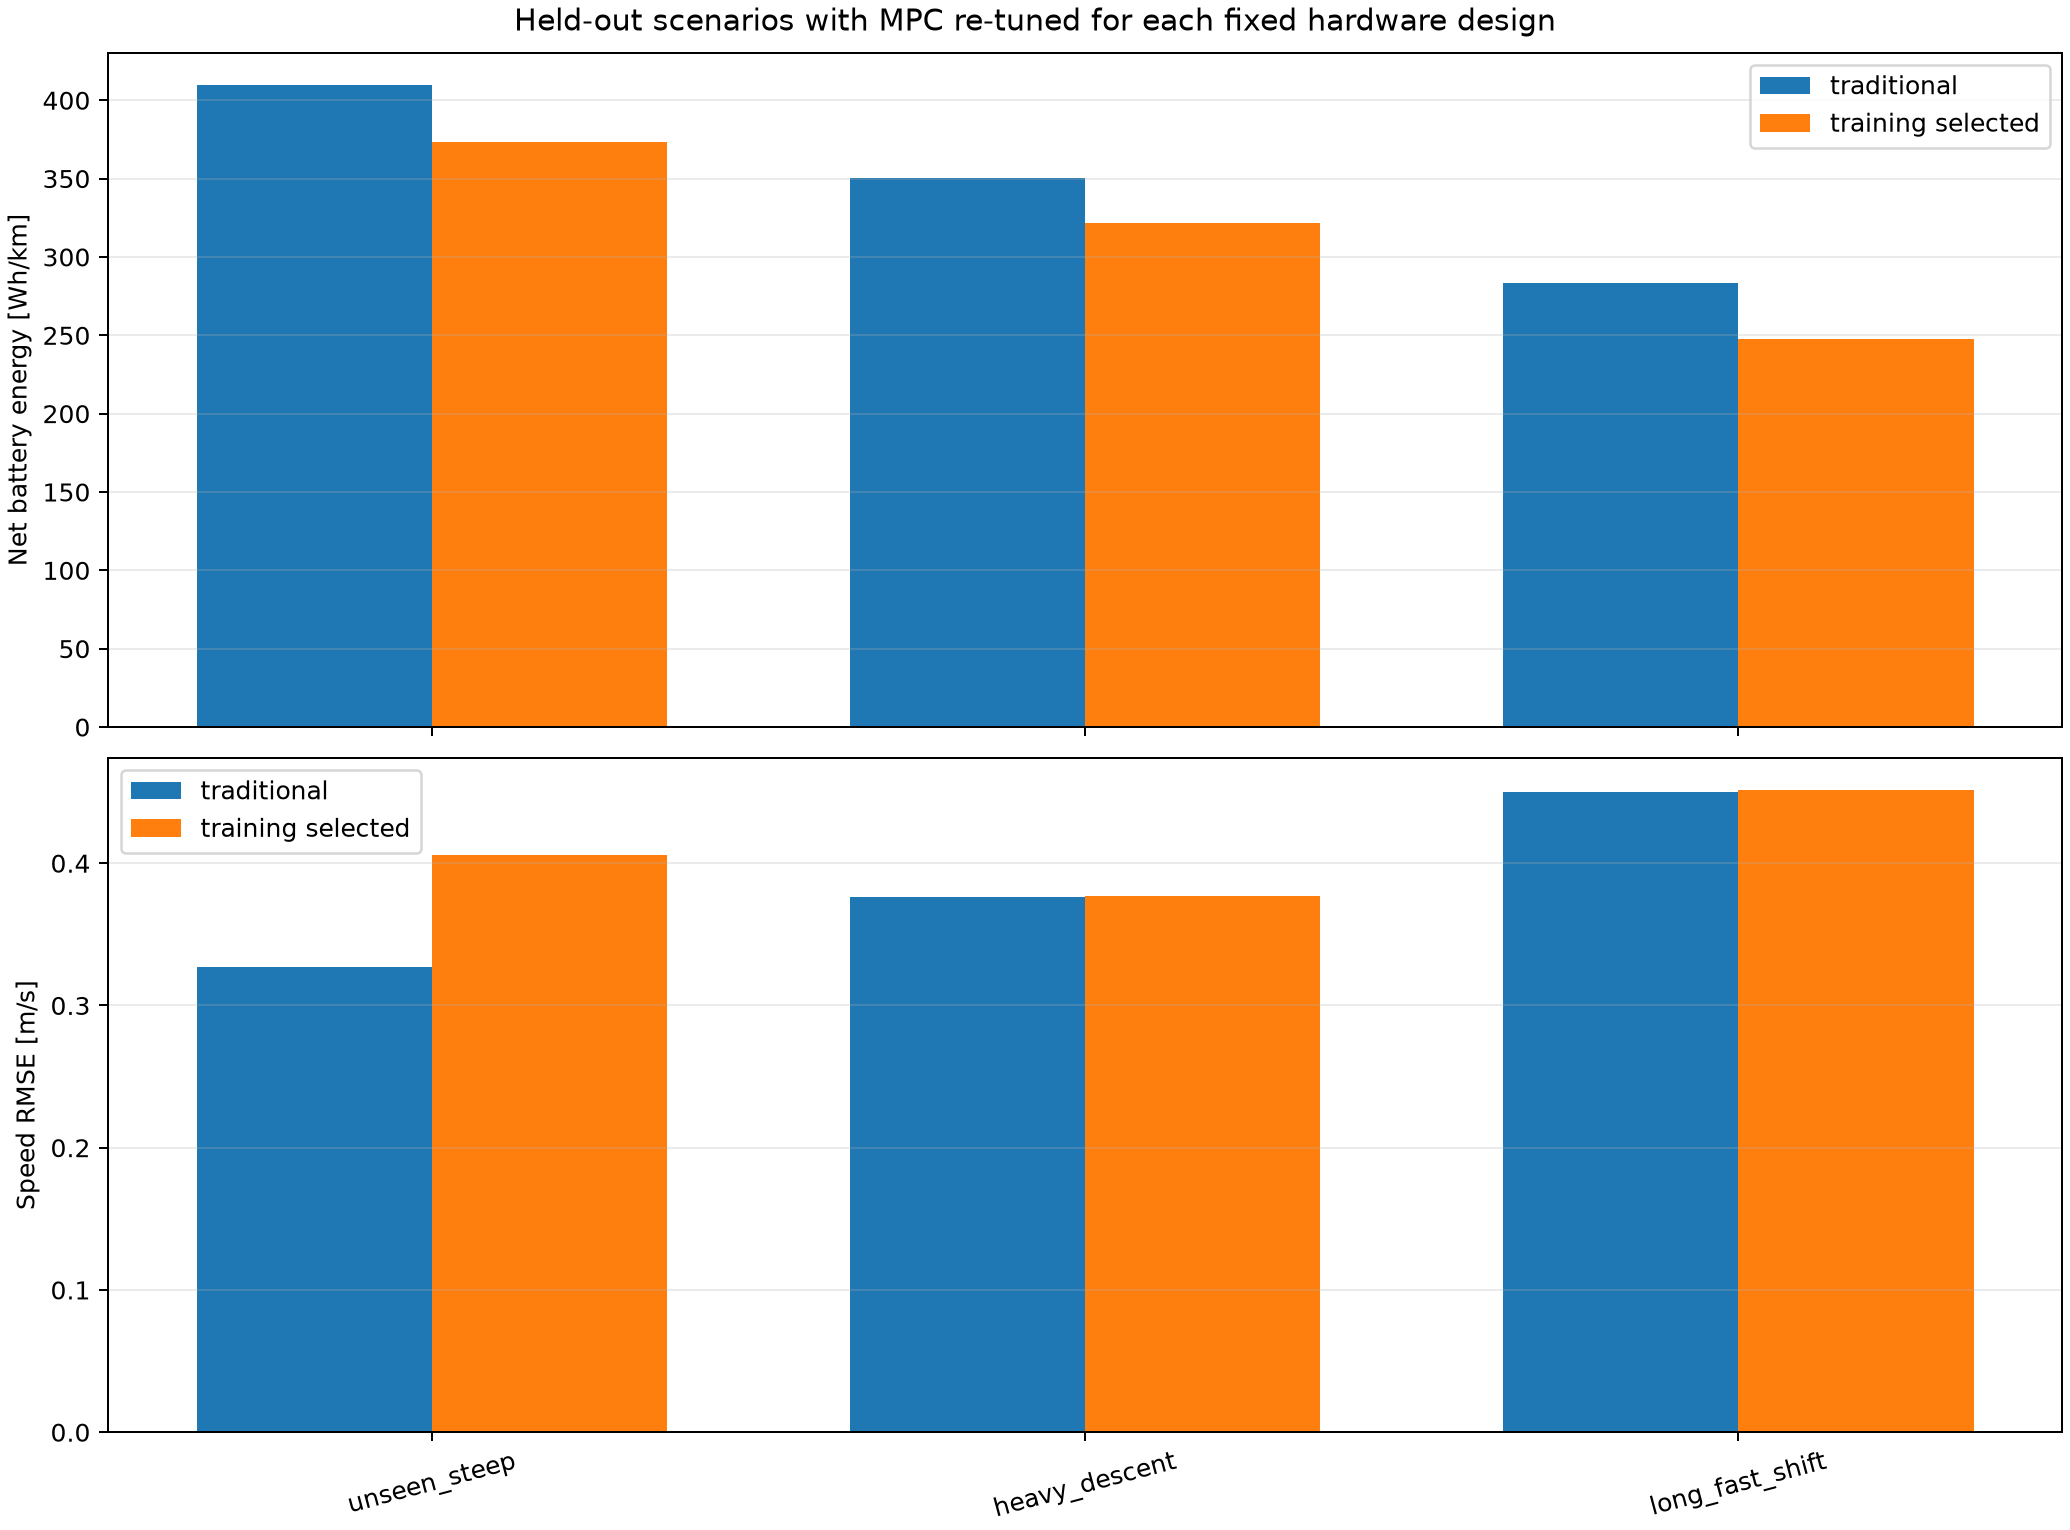
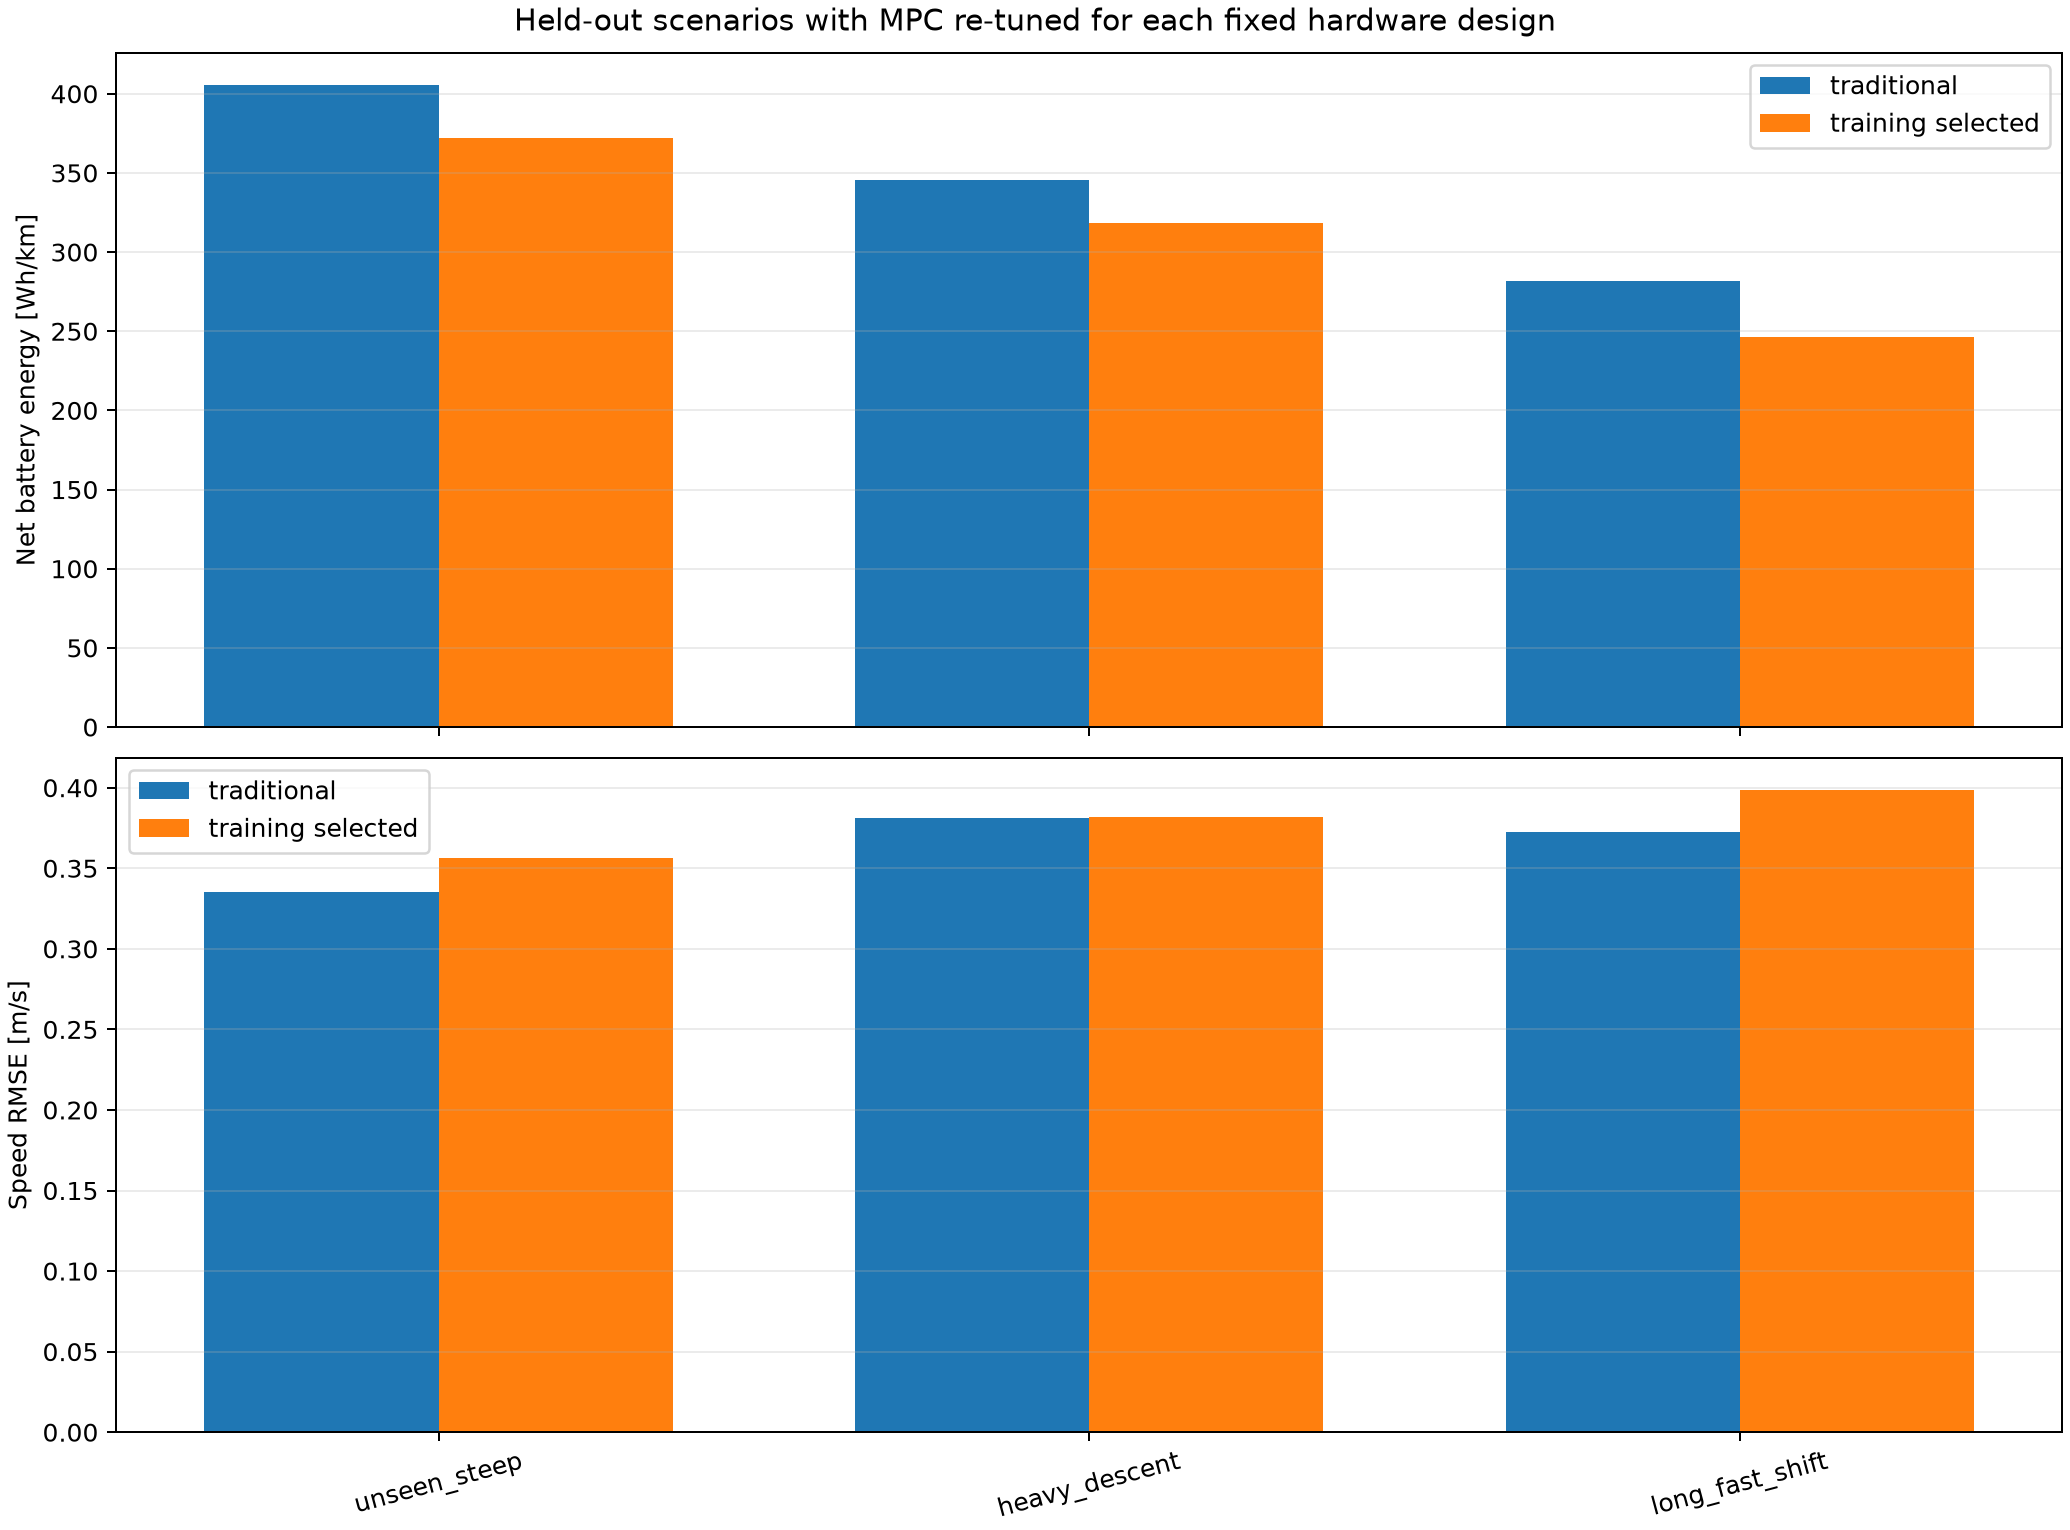
Tighten RMSE constraints and densify controller search

diff --git a/tests/test_generality_dataset.py b/tests/test_generality_dataset.py
@@ -10,7 +10,14 @@ from codesign.generality_dataset import (
 )
 
 
-def _result(scenario: str, ratio: float, scale: float, energy: float, controller: float):
+def _result(
+    scenario: str,
+    ratio: float,
+    scale: float,
+    energy: float,
+    controller: float,
+    feasible: bool = True,
+):
     return ScenarioEvaluation(
         scenario=scenario,
         split="train",
@@ -29,8 +36,8 @@ def _result(scenario: str, ratio: float, scale: float, energy: float, controller
         friction_brake_wh=10.0,
         recovered_battery_wh=20.0,
         fallback_count=0,
-        feasible=True,
-        violations=(),
+        feasible=feasible,
+        violations=() if feasible else ("tracking_rmse",),
     )
 
 
@@ -53,6 +60,18 @@ def test_controller_is_selected_independently_per_scenario() -> None:
     assert first is not None and second is not None
     assert first.log10_lambda_energy == 0.5
     assert second.log10_lambda_energy == -1.0
+
+
+def test_controller_selection_minimizes_energy_only_inside_rmse_feasible_set() -> None:
+    selected = select_controller(
+        [
+            _result("a", 10.0, 0.75, 190.0, -1.0),
+            _result("a", 10.0, 0.75, 170.0, 0.5),
+            _result("a", 10.0, 0.75, 140.0, 1.0, feasible=False),
+        ]
+    )
+    assert selected is not None
+    assert selected.net_battery_wh == pytest.approx(170.0)
 
 
 def test_training_hardware_requires_all_training_scenarios() -> None:

diff --git a/src/codesign/generality_dataset.py b/src/codesign/generality_dataset.py
@@ -44,7 +44,7 @@ class ScenarioDefinition:
     initial_motor_temperature_c: float = 55.0
     discharge_power_kw: float = 90.0
     charge_power_kw: float = 45.0
-    rmse_limit_mps: float = 0.80
+    rmse_limit_mps: float = 0.40
 
     def __post_init__(self) -> None:
         if self.split not in {"train", "test"}:
@@ -490,18 +490,18 @@ def run_generality_experiment(
     if quick:
         ratios = (8.5, 10.0, 10.5, 11.5, 12.0)
         scales = (0.6, 0.75, 0.9)
-        controllers = (
-            ControllerDesign(-1.0, -1.0),
-            ControllerDesign(0.5, -1.0),
-            ControllerDesign(1.5, -0.5),
+        controllers = tuple(
+            ControllerDesign(energy, slew)
+            for energy in (-1.5, -1.0, -0.5, 0.0, 0.5)
+            for slew in (-1.5, -1.0, -0.5)
         )
     else:
         ratios = tuple(np.arange(7.0, 12.01, 0.5))
         scales = tuple(np.arange(0.6, 1.051, 0.075))
         controllers = tuple(
             ControllerDesign(energy, slew)
-            for energy in (-1.5, -0.5, 0.5, 1.5)
-            for slew in (-1.5, -0.5, 0.5)
+            for energy in (-2.0, -1.5, -1.0, -0.5, 0.0, 0.5, 1.0)
+            for slew in (-2.0, -1.5, -1.0, -0.5, 0.0)
         )
     sampled_hardware = tuple(
         HardwareDesign(ratio, scale) for ratio in ratios for scale in scales
@@ -608,6 +608,9 @@ def run_generality_experiment(
             "hardware_selected_using": "training scenarios only",
             "controller_policy": "re-optimized independently for every scenario after hardware is fixed",
             "objective": "minimum mean Wh/km subject to each scenario's tracking and mission constraints",
+            "rmse_threshold_mps": 0.40,
+            "controller_candidate_count": len(controllers),
+            "controller_candidates": [asdict(controller) for controller in controllers],
         },
         "training_scenarios": [scenario.name for scenario in training],
         "test_scenarios": [scenario.name for scenario in testing],

diff --git a/src/codesign/metadrive_env.py b/src/codesign/metadrive_env.py
@@ -84,6 +84,7 @@ class MetaDriveEVEnv:
         )
         env_config: dict[str, Any] = {
             "use_render": self.use_render,
+            "log_level": 50,
             "num_scenarios": 1,
             "start_seed": self.seed,
             "map": self.map_sequence,

diff --git a/docs/optimization/generality-dataset.md b/docs/optimization/generality-dataset.md
@@ -1,7 +1,7 @@
 # Train/test generalization dataset
 
 !!! success "Held-out improvement confirmed"
-    Hardware selected using four training scenarios reduced mean energy by 9.66% on three unseen
+    Hardware selected using four training scenarios reduced mean energy by 9.22% on three unseen
     test scenarios. The hardware was frozen before test evaluation, while MPC weights were
     re-optimized independently for every scenario.
 
@@ -45,7 +45,7 @@ stored in the manifest before optimization, but are not evaluated during hardwar
 
 For every scenario, controller tuning minimizes Wh/km subject to:
 
-- speed RMSE ≤0.8 m/s;
+- speed RMSE ≤0.4 m/s;
 - terminal progress ≥98.5%;
 - station distance error ≤12 m;
 - station speed ≤1.5 m/s;
@@ -57,19 +57,22 @@ gives every training scenario equal influence despite different route lengths.
 
 ## Training result
 
-The quick grid proposed 15 hardware designs, rejected three that violated the shared 120 km/h
-motor-speed requirement, and ran 144 training evaluations: 12 hardware designs by three controller
-settings by four scenarios.
+The corrected quick grid proposed 15 hardware designs, rejected three that violated the shared
+120 km/h motor-speed requirement, and ran 720 training evaluations: 12 hardware designs by 15
+controller settings by four scenarios. The controller grid samples
+$\log_{10}\lambda_E\in\{-1.5,-1,-0.5,0,0.5\}$ and
+$\log_{10}\lambda_{\Delta u}\in\{-1.5,-1,-0.5\}$.
 
 | Hardware | Mean training energy | Maximum training RMSE |
 |---|---:|---:|
-| Conventional $g=10.5,s_m=0.60$ | 314.44 Wh/km | 0.4842 m/s |
-| Training-selected $g=11.5,s_m=0.75$ | **277.07 Wh/km** | 0.4843 m/s |
+| Conventional $g=10.5,s_m=0.60$ | 311.15 Wh/km | 0.3962 m/s |
+| Training-selected $g=11.5,s_m=0.75$ | **274.79 Wh/km** | 0.3978 m/s |
 
 ![Training hardware map](../assets/validation/generality_training_hardware_map.png)
 
-Controller adaptation was active rather than nominally allowed: the selected hardware used
-$\log_{10}\lambda_E=-1$ on Alpine commuter and $0.5$ on the other three training scenarios.
+Controller adaptation was active rather than nominally allowed. For the selected hardware,
+$\log_{10}\lambda_E$ was −0.5, 0.5, −1.5, and 0.5 across the four training scenarios; the selected
+slew weight was −0.5. Each choice is the minimum-energy point satisfying RMSE ≤0.4 m/s.
 
 ## Held-out test result
 
@@ -78,20 +81,20 @@ search on every test scenario.
 
 | Held-out scenario | Traditional Wh/km | Selected Wh/km | Traditional RMSE | Selected RMSE |
 |---|---:|---:|---:|---:|
-| Unseen steep | 409.84 | **373.43** | 0.3270 | 0.4057 |
-| Heavy descent | 350.58 | **321.66** | 0.3764 | 0.3772 |
-| Long fast shift | 283.39 | **247.86** | 0.4498 | 0.4515 |
-| **Mean** | **347.94** | **314.32** | — | — |
+| Unseen steep | 405.63 | **372.26** | 0.3351 | 0.3563 |
+| Heavy descent | 345.21 | **318.62** | 0.3811 | 0.3816 |
+| Long fast shift | 281.91 | **246.61** | 0.3727 | 0.3986 |
+| **Mean** | **344.25** | **312.50** | — | — |
 
-The training-selected hardware reduces mean held-out energy by **9.66%** and wins on every test
-scenario. All six test hardware/scenario combinations satisfy the 0.8 m/s tracking threshold and
+The training-selected hardware reduces mean held-out energy by **9.22%** and wins on every test
+scenario. All six test hardware/scenario combinations satisfy the 0.4 m/s tracking threshold and
 mission constraints.
 
 ![Held-out generalization results](../assets/validation/generality_test_results.png)
 
 The unseen-steep case illustrates why the final comparison uses a constraint rather than a weighted
-score: selected hardware accepts a modest RMSE increase while remaining comfortably feasible and
-uses 8.88% less energy. The other two cases have nearly identical RMSE and lower energy.
+score: selected hardware accepts a modest RMSE increase while remaining feasible and uses 8.23%
+less energy. The other two cases also remain below the common threshold and use less energy.
 
 ## Reproduce and inspect
 

diff --git a/PLAN.md b/PLAN.md
@@ -324,23 +324,23 @@ Quick protocol:
 
 - 15 proposed hardware candidates: five final-drive ratios by three motor scales; three candidates
   are rejected before training because they violate the shared 120 km/h motor-speed requirement.
-- Three MPC weight candidates per hardware/scenario pair.
-- 144 training evaluations and 18 held-out evaluations.
+- Fifteen MPC candidates per hardware/scenario pair: five energy weights by three slew weights.
+- 720 training evaluations and 90 held-out evaluations.
 - Hardware objective: minimum equally weighted mean training Wh/km.
-- Hard per-scenario limits: RMSE ≤0.8 m/s, progress ≥98.5%, station accuracy, temperature,
+- Hard per-scenario limits: RMSE ≤0.4 m/s, progress ≥98.5%, station accuracy, temperature,
   completion, and zero MPC fallback.
 
 Measured result:
 
 | Stage | Conventional $g=10.5,s_m=0.60$ | Training-selected $g=11.5,s_m=0.75$ | Reduction |
 |---|---:|---:|---:|
-| Mean training energy | 314.44 Wh/km | 277.07 Wh/km | 11.88% |
-| Mean held-out energy | 347.94 Wh/km | 314.32 Wh/km | 9.66% |
+| Mean training energy | 311.15 Wh/km | 274.79 Wh/km | 11.68% |
+| Mean held-out energy | 344.25 Wh/km | 312.50 Wh/km | 9.22% |
 
 The selected hardware uses less energy on every held-out scenario. All selected and conventional
-test runs satisfy the 0.8 m/s RMSE threshold and mission constraints. Controller adaptation is
-observable: selected hardware uses $\log_{10}\lambda_E=-1$ for one training scenario and $0.5$ for
-the other three; held-out controllers are independently selected after hardware freezing.
+test runs satisfy the 0.4 m/s RMSE threshold and mission constraints. Controller adaptation is
+observable: selected hardware uses $\log_{10}\lambda_E\in\{-1.5,-0.5,0.5\}$ across training
+scenarios; held-out controllers are independently selected after hardware freezing.
 
 Recovery command:
 

diff --git a/project_status.md b/project_status.md
@@ -73,7 +73,7 @@ validation, sourced motor data, and CARLA transfer validation are next.
   missions varying grade, speed, cycles, payload, drag, temperature, battery limits, and seed.
 - Implemented leakage-free hardware selection on training data with independent MPC re-optimization
   for every scenario before and after hardware is frozen.
-- Completed 144 training and 18 held-out controller evaluations with a resumable JSON cache after
+- Completed 720 training and 90 held-out controller evaluations with a resumable JSON cache after
   rejecting three hardware candidates that violated the shared 120 km/h motor-speed requirement.
 
 ## Verification
@@ -81,7 +81,7 @@ validation, sourced motor data, and CARLA transfer validation are next.
 - Created an isolated Python 3.11 virtual environment and installed MetaDrive 0.4.3 plus the
   development dependencies.
 - `ruff check .`: passed.
-- `pytest`: 46 tests passed.
+- `pytest`: 47 tests passed.
 - `codesign-smoke --core-only`: passed; nominal mass 1575.0 kg, net energy 2.675 Wh, and
   recovered energy 1.396 Wh for the deterministic four-point core exercise.
 - `codesign-smoke --metadrive`: passed; MetaDrive initialized headlessly, downloaded and loaded
@@ -123,11 +123,12 @@ validation, sourced motor data, and CARLA transfer validation are next.
 - The mountain co-design reduced friction-brake dissipation from 60.21 to 28.02 Wh and increased
   recovered battery energy from 181.02 to 212.99 Wh. Across the hardware grid, best feasible energy
   ranged from 314.7 to 211.0 Wh.
-- Generalization training selected $g=11.5,s_m=0.75$ using only four training scenarios. Mean
-  training energy was 277.07 Wh/km versus 314.44 Wh/km for conventional $g=10.5,s_m=0.6$.
+- Corrected generalization training uses a 15-point two-parameter MPC grid and RMSE ≤0.4 m/s.
+  Training selected $g=11.5,s_m=0.75$ using only four training scenarios; mean energy was
+  274.79 Wh/km versus 311.15 Wh/km for conventional $g=10.5,s_m=0.6$.
 - With hardware frozen and MPC re-tuned independently on every held-out scenario, selected hardware
-  reduced mean test energy from 347.94 to 314.32 Wh/km (9.66%), won all three test cases, and kept
-  all RMSE values below the 0.8 m/s threshold without fallback or mission violations.
+  reduced mean test energy from 344.25 to 312.50 Wh/km (9.22%), won all three test cases, and kept
+  all RMSE values below the 0.4 m/s threshold without fallback or mission violations.
 
 ## Important limitations
 